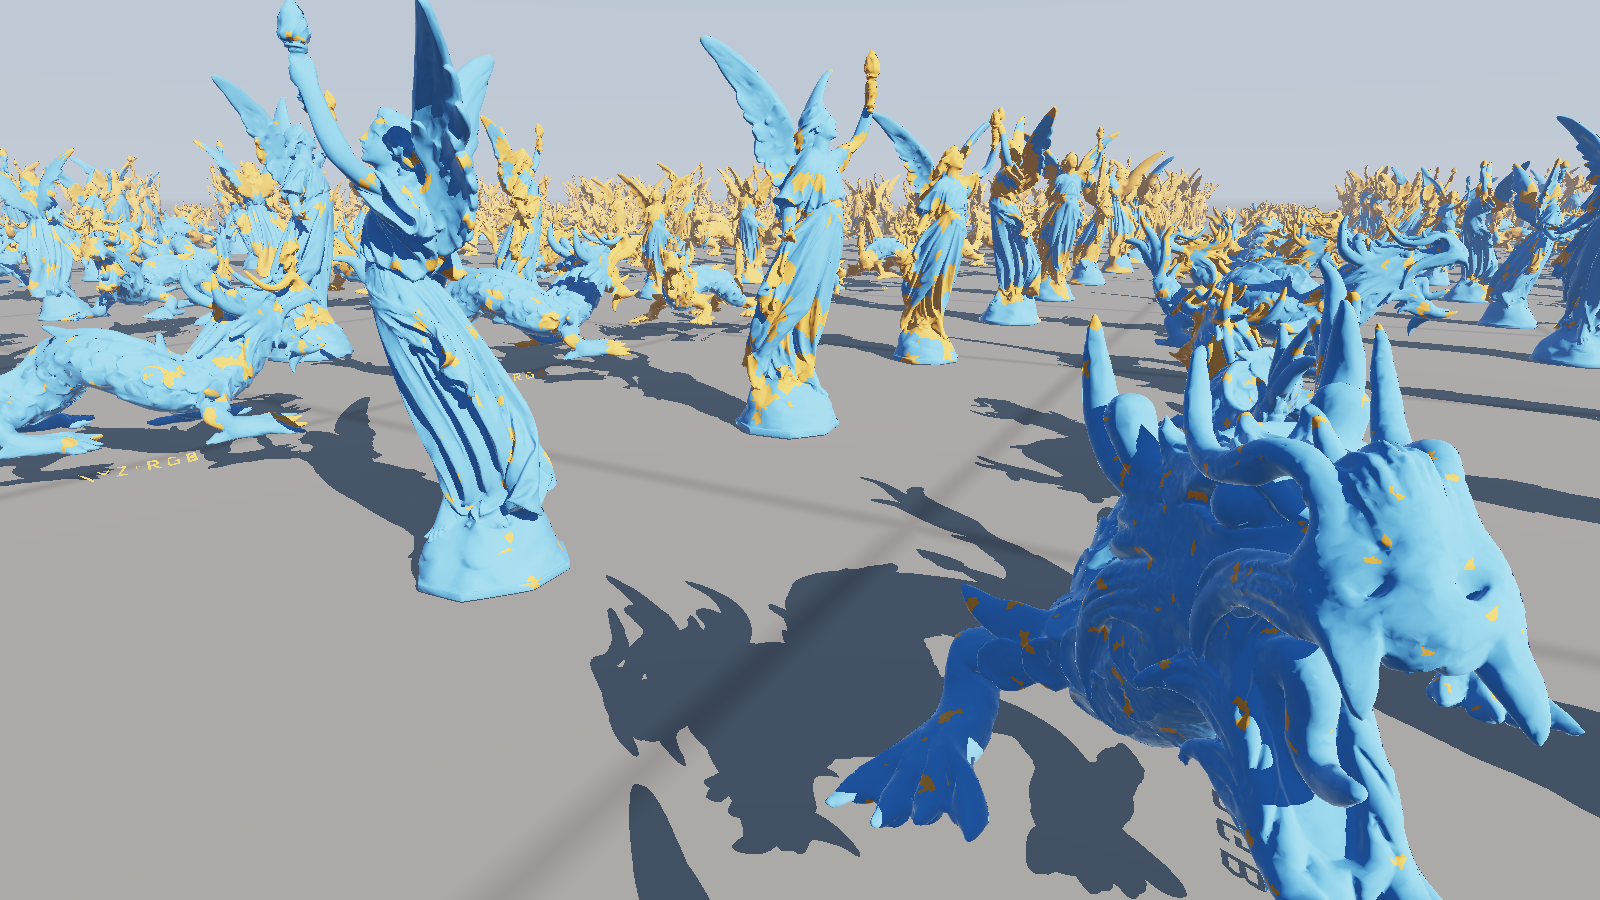
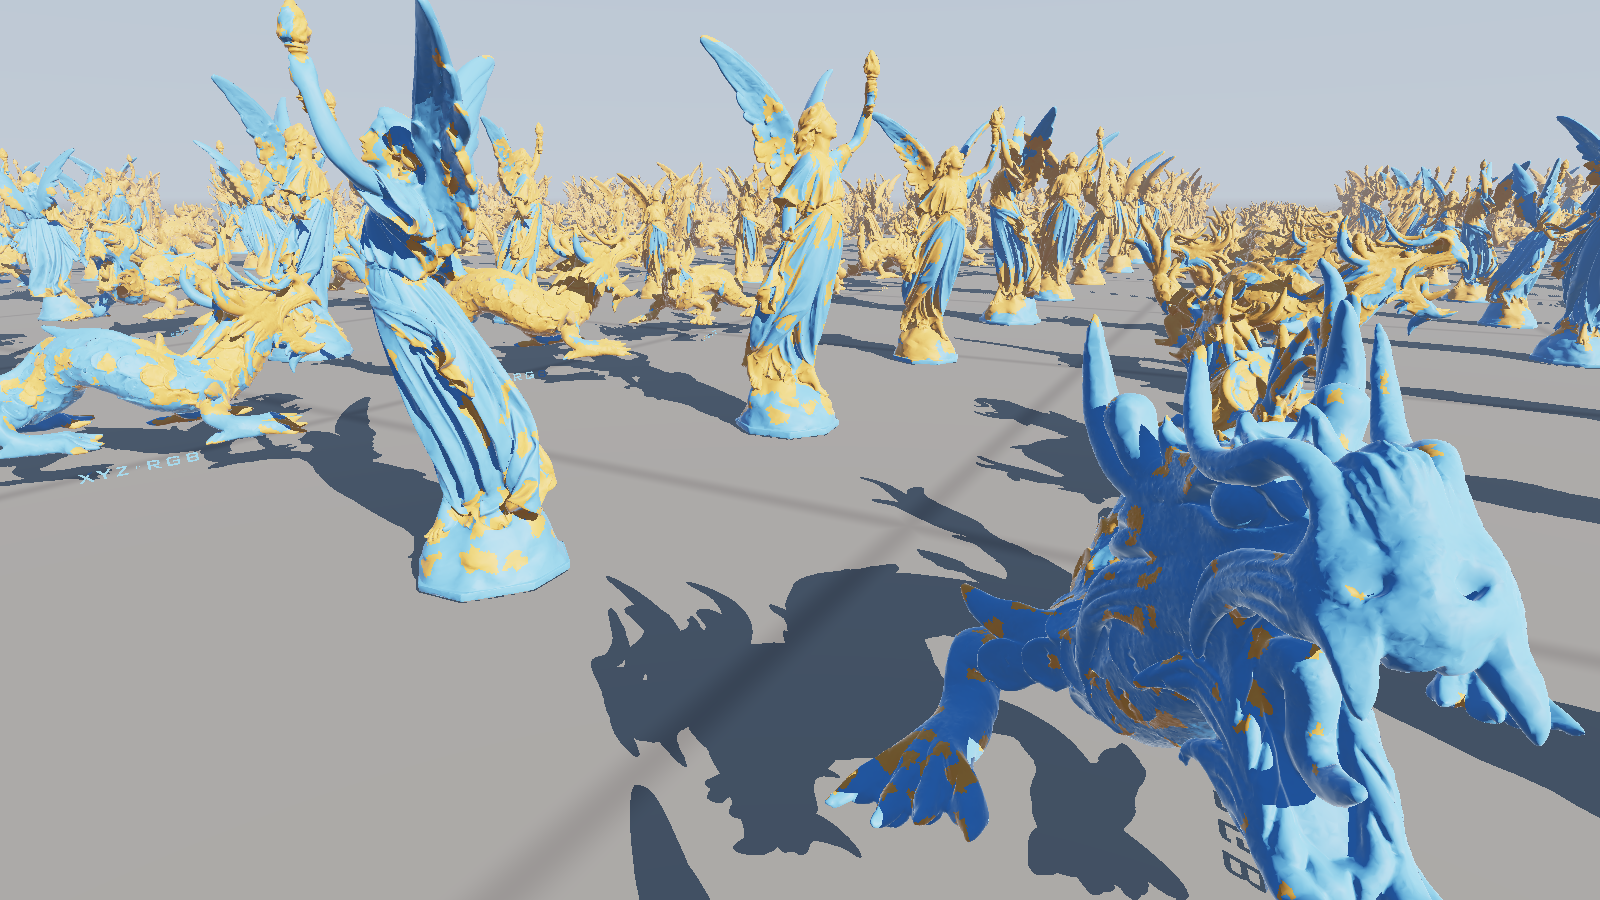
docs: describe stage 4, with every number measured again
The README now covers recursive bisection (every cluster full), measured
errors, materials, the cheaper shadows, antialiasing, prefetching,
three-byte triangles and the browser's streaming, occlusion, shadows and
antialiasing, and its limitations are the ones left. Every number was
measured again on the current build: the crowd at 0.81, 0.98 and 0.74 ms
for the three cameras with shadows and antialiasing, against 0.76, 0.82
and 0.85 ms in the last version, which drew a third of the triangles
under an error bound that was not strict. The images are rendered again.

diff --git a/README.md b/README.md
@@ -4,33 +4,38 @@
 [![license: MIT](https://img.shields.io/badge/license-MIT-blue.svg)](LICENSE)
 
 Virtualized geometry from scratch, in C++20 and Vulkan: a builder that turns a scanned
-model into a crack-free hierarchy of clusters, and a renderer that draws thousands of
-copies of it by picking, cluster by cluster, the coarsest detail that stays within a
-pixel of the original. It is the technique behind Unreal Engine 5's Nanite, written
-with no libraries beyond Vulkan and GLFW: the clustering, the simplifier, the graph
-partitioning, the culling, both rasterizers and the shading are all in this repository.
+model into a crack-free hierarchy of clusters, and a renderer that streams it from disk
+and draws thousands of copies of it by picking, cluster by cluster, the coarsest detail
+that stays within a pixel of the original. It is the technique behind Unreal Engine 5's
+Nanite, written with no libraries beyond Vulkan and GLFW: the clustering, the
+simplifier, the graph partitioning, the streaming, the culling, both rasterizers and the
+shading are all in this repository.
 
 **[Fly through it in your browser →](https://apollo-2006.github.io/colossus/)** A
-WebGPU port of the renderer (see [In the browser](#in-the-browser)), with the debug views,
-the error threshold and the crowd size to play with.
+WebGPU port of the renderer (see [In the browser](#in-the-browser)), streaming its
+pages over HTTP, with the debug views, the error threshold and the crowd size to play
+with.
 
 ![900 instances of Lucy and the XYZ RGB dragon, lit by the sun with ray traced shadows](docs/crowd.png)
 
 900 instances of Lucy (28M triangles) and the XYZ RGB dragon (7.2M), 15.9 billion
-triangles at full detail, drawn at 1920x1080 in 0.72 ms on an RX 9070 XT. About 0.86M
-triangles reach the screen.
+triangles at full detail, drawn at 1920x1080 in 0.81 ms on an RX 9070 XT, shadows and
+antialiasing included. About 3M triangles reach the screen, from 23 MB of the 579 MB
+on disk.
 
 ## How it works
 
 ### Building the hierarchy (`colossus_build`)
 
 * **Clusters.** The mesh is split into clusters of at most 128 triangles and 128
-  vertices (`src/cluster.cpp`), the unit every later step works in. A cluster grows
-  greedily: the next triangle is the one touching it that adds the fewest new
-  vertices, stays nearest its center, and has the fewest unused neighbours, so notches
-  that would become islands are taken while the cluster still reaches them. Each new
-  cluster starts on the last one's frontier. On the dragon this fills clusters to 108
-  triangles on average; seeding in Morton order alone gave 90.
+  vertices (`src/cluster.cpp`), the unit every later step works in, by recursive
+  bisection of the graph of triangles that share an edge. Each piece is cut in two
+  from two seeds far apart, growing outward from each in breadth-first layers, with
+  the cut placed so both halves hold a whole number of clusters; a few passes of
+  swapping triangles across the cut then shorten it. Every cluster comes out full:
+  the dragon's 7.2M triangles make 56,404 leaf clusters, 128.0 triangles on average.
+  The greedy grower this replaced left 8% of clusters as small pockets walled in by
+  full ones.
 * **Groups, locked, then simplified.** Each level's clusters are partitioned into
   groups of about eight that share the most edges (`src/dag.cpp`). Every vertex a
   group shares with another group is locked, the group's triangles are merged and
@@ -42,17 +47,25 @@ triangles reach the screen.
   quadric error (Garland and Heckbert): each vertex carries the summed squared
   distances to the planes around it. Collapses keep one endpoint, so every level
   indexes the original vertices and the whole hierarchy shares one vertex buffer.
-  Collapses that would flip a triangle or pinch the surface (the link condition) are
-  refused, and a vertex on a hole in the scan may only slide along the hole's edge.
-* **Errors that only grow.** A cluster stores its own error and its parent group's,
-  each with a bounding sphere, and both only grow toward the root. So the test
+  Collapses that would flip a triangle, pinch the surface (the link condition) or
+  remove a vertex's last triangles are refused, and a vertex on a hole in the scan
+  may only slide along the hole's edge.
+* **Errors that are measured, and only grow.** A quadric's cost is a mean over
+  planes, so it can understate the worst spot. Each simplified group is instead
+  measured against what it replaced: a two-sided distance sampled at every vertex,
+  edge midpoint and triangle centre of each surface, from the nearest triangle of the
+  other through a grid. The group's error is its children's plus the larger of that
+  and the quadric's estimate. Where the measurement comes out over four times the
+  estimate, the group is simplified again, less far, and the better result kept.
+  A cluster stores its own error and its parent group's, each with a bounding sphere,
+  and both only grow toward the root. So the test
   `own error on screen <= 1 pixel < parent error on screen` picks exactly one level
   along every path from a leaf to a root, and every cluster of a group agrees. Each
   cluster is tested on its own, by its own GPU thread, with no tree to walk.
 * **Checked for cracks.** Since every level uses the original vertices, a crack is
   exact to detect: an edge used by one triangle of a cut whose ends are not both on a
   hole in the scan. `colossus_build --check` selects 25 cuts across the error range and
-  counts them. Lucy builds 18 levels in 24 s and the dragon 20 levels in 5.4 s, every
+  counts them. Lucy builds 19 levels in 83 s and the dragon 19 levels in 21 s, every
   cut with 0 cracked edges.
 
 ### Drawing it (`colossus`)
@@ -61,7 +74,7 @@ triangles reach the screen.
    for the rest, finds which clusters could be drawn at all. Clusters are stored in
    order of parent error, and one can only be drawn while its parent looks too coarse,
    so a binary search skips every cluster fine enough anywhere on the instance. A far
-   instance tests a short tail of its coarsest clusters, not all 573k.
+   instance tests a short tail of its coarsest clusters, not all 445k.
 2. **Cluster culling** (`cluster_cull.comp`) tests the rest: the LOD cut, the
    frustum, the normal cone, and occlusion. Survivors are appended to a list with one
    atomic per subgroup. This began as a task shader; on RADV each task workgroup has a
@@ -81,13 +94,26 @@ triangles reach the screen.
    frame reveals. The pyramid is built from the visibility buffer, so both
    rasterizers count.
 5. **Shading** (`shade.comp`) finds each pixel's triangle again, intersects the
-   pixel's ray with it for exact barycentrics, and interpolates normals. Where the GPU
-   has ray queries, one shadow ray per pixel is traced toward the sun against a coarser
-   copy of each model: the finest cut of its own hierarchy within 256k triangles. The
-   hierarchy also says how far that copy can stray from what is drawn, and shadow rays
-   start that far above the surface.
-
-6. **Streaming.** Only the clusters' bounds and errors stay resident. Their geometry is
+   pixel's ray with it for exact barycentrics, and interpolates normals. Each instance
+   is one of five materials (marble, sandstone, granite, bronze or gold), lit with
+   Lambert diffuse and a GGX specular lobe.
+6. **Shadows**, where the GPU has ray queries. Rays toward the sun are traced against
+   coarser copies of each model, cut from its own hierarchy at 256k, 32k and 4k
+   triangles and kept in one acceleration structure under three masks; each ray uses
+   the coarsest copy whose error is under half a pixel where it starts, and starts
+   that error above the surface. `shadow.comp` traces one ray per 2x2 pixels, and
+   shading borrows that result where every neighbour at the pixel's distance agrees,
+   and traces its own ray at shadow edges and silhouettes. Rays stop once they climb above
+   the tallest model. Together these took the three views below from 0.40, 0.55 and
+   0.48 ms of shading to 0.32, 0.44 and 0.37 ms, with 0.07% to 0.37% of pixels
+   visibly different.
+7. **Antialiasing** (`taa.comp`). Each frame's projection is nudged by a sub-pixel
+   offset, eight in turn, and each pixel is blended 10% into a history found by
+   projecting the surface under it with last frame's camera, the nudge taken back
+   out, so a still camera never resamples its history. The history is read through a
+   Catmull-Rom filter so a moving camera does not blur it, and held to the colours of
+   the pixel's 3x3 neighbourhood so nothing ghosts. It costs 0.05 to 0.07 ms.
+8. **Streaming.** Only the clusters' bounds and errors stay resident. Their geometry is
    packed into pages, one per group, and paged from disk into a fixed pool
    (`--pool-mb`, 1 GB by default) as the GPU asks for it. A cluster that is drawn but
    would rather be its finer clusters, whose page is missing, requests that page,
@@ -105,19 +131,26 @@ triangles reach the screen.
    evicted only when nothing resident or loading depends on it. Then along every path
    from leaf to root, exactly one cluster is drawn, whatever has been loaded.
 
+   Each level used to take a round trip of a few frames. A request also says how far
+   it is from good enough, and each level roughly halves the error, so the streamer
+   prefetches the pages below a request, at half the priority a level, while the error
+   would still be over the threshold. From a cold start, a close up of Lucy settles
+   in 17 frames instead of 45, and the crowd above in 32 instead of 45.
+
    Pages are compact: a vertex is two words, its position snapped to a grid over the
    model and stored as 14-bit offsets from its cluster's corner, its normal
-   octahedral at 11 + 11 bits. A vertex shared by clusters snaps to the same grid
-   point in each, so quantizing opens no cracks; Lucy's grid step is 3.3e-5 of her
-   height. Her pages are 509 MB.
+   octahedral at 11 + 11 bits, and a triangle is three bytes. A vertex shared by
+   clusters snaps to the same grid point in each, so quantizing opens no cracks;
+   Lucy's grid step is 3.3e-5 of her height. Her pages are 460 MB. A shared vertex is
+   still stored once per cluster that uses it, but each is used by only 1.22 clusters
+   on average, so indexing them would save little; zlib takes 20% off a page.
 
-   The 900 instance view at the top settles in 21 frames with 321 pages, 2 MB, of
-   the 640 MB on disk resident, since every instance draws from the same pages; after
-   that it draws the same 856k triangles as with everything resident. A 300 frame
-   flight through the crowd with a 16 MB pool turns over thousands of pages and shows
-   no holes at any frame checked. From a cold file cache, the render thread's worst
-   frame in the streamer is 0.25 ms with loader threads, against 11.5 ms reading pages
-   itself (`--sync-loads`).
+   The crowd above reads 23 MB and holds at most 2,577 pages, since every instance
+   draws from the same pages. A 300 frame flight through the crowd with a 16 MB pool
+   evicts 24,085 pages, and at frames 100, 200 and 300 its holes view shows exactly
+   the empty pixels a 1 GB pool does: background between thin parts, no gaps. From a cold
+   file cache, the render thread's worst frame in the streamer is 2.0 ms with loader
+   threads, against 44 ms reading pages itself (`--sync-loads`).
 
 ![Lucy, each cluster in its own color](docs/clusters.png)
 
@@ -135,8 +168,8 @@ mesh shaders. Only the nearest surfaces are worth sending to the hardware.
 
 ## In the browser
 
-`web/` is the renderer ported to WebGPU, which has no mesh shaders, no 64-bit atomics and
-no ray queries:
+`web/` is the renderer ported to WebGPU, which has no mesh shaders, no 64-bit atomics,
+no ray queries and no push constants:
 
 * Large clusters go through an ordinary render pipeline: one instance per visible
   cluster, 384 vertices each, every vertex pulling its cluster, triangle and corner
@@ -145,13 +178,22 @@ no ray queries:
   twice: a 32-bit atomic max keeps the nearest depth, then a second pass writes the
   triangle wherever its depth won. Shading takes the nearer of the two rasterizers'
   results at each pixel.
-* No shadows, no occlusion culling and no streaming yet.
+* Pages stream over HTTP range requests, through a JavaScript port of the streamer
+  (`web/streamer.js`), with the same dependency rules. A server that ignores ranges
+  gets the whole page file fetched once.
+* Occlusion culling runs in the same two passes, the pass number coming from a
+  uniform buffer bound at a different offset per dispatch.
+* Shadows come from a 2048x2048 shadow map over the ground in front of the camera,
+  its casters picked by a second run of the same culling with an orthographic
+  camera, at an error of 8 texels. Materials and antialiasing are the viewer's.
 
-The models are trimmed to 400k triangles at their finest (`colossus_build --max-triangles`,
-which keeps the hierarchy above that cut intact), 7.5 MB each gzipped. Every page is
-loaded up front, so the page table is just each page's place in the file. 900 instances
-take 0.47 ms of GPU time at 1600x813 in Chrome on the RX 9070 XT. `web/build.sh` builds the
-models, and `node tests/web_screenshot.mjs` renders the page in a headless Chrome.
+The models are trimmed to 4M triangles at their finest (`colossus_build --max-triangles`,
+which keeps the hierarchy above that cut intact): about 4 MB of gzipped metadata each,
+loaded up front, and about 71 MB of pages, streamed. 900 instances (3.6 billion triangles at
+full detail) take 0.72 ms of GPU time at 1600x813 in Chrome on the RX 9070 XT, drawing
+2M triangles from 5 MB of pages. It needs 14 storage buffers per shader stage, which
+desktop GPUs allow. `web/build.sh` builds the models, and
+`node tests/web_screenshot.mjs` renders the page in a headless Chrome.
 
 ## Build & run
 
@@ -175,7 +217,7 @@ models/fetch.sh            # downloads Lucy and the dragon (380 MB) and builds b
 | 1 to 8 | shaded, clusters, triangles, LOD level, groups, instances, holes, rasterizer |
 | [ and ] | halve or double the error threshold (1 pixel) |
 | F | freeze culling, to fly out and watch it from outside |
-| C V O R H | cone culling, frustum culling, occlusion, compute rasterizer, shadows |
+| C V O R H X | cone culling, frustum culling, occlusion, compute rasterizer, shadows, antialiasing |
 | T, P | wireframe; print the camera as a `--camera` argument |
 
 `--headless --frames N --screenshot out.png` renders without a window and prints the
@@ -193,46 +235,52 @@ and coverage, the simplifier's locked vertices, flips and area on a flat grid, a
 full hierarchy for a closed sphere, a sphere with holes and a flat grid, each checked
 for cracks at 31 cuts, paged, written to a file and read back exactly. With the group
 locks removed from the builder, the crack check reports 39,095 cracked edges on the
-closed sphere alone.
+closed sphere alone. They also check that every vertex shared by clusters decodes bit
+for bit the same from each.
 
 `tests/streamer_test.cpp` runs the streamer for 3,000 frames of random requests into a
-pool a tenth the size of a model, synchronously and with loader threads, checking
-after each frame that every resident page's dependencies are resident. It caught one
-way to break that (making room for a page could evict a page it was about to depend
-on), fixed before the streamer was committed. The builder's tests also check that
-every vertex shared by clusters decodes bit for bit the same from each. CI runs both
-and builds the viewer on every push.
+pool a tenth the size of a model, synchronously, with loader threads, and with loader
+threads and prefetching, checking after each frame that every resident page's
+dependencies are resident. It caught one way to break that (making room for a page
+could evict a page it was about to depend on), fixed before the streamer was
+committed. CI runs both and builds the viewer on every push.
 
 ## Performance
 
-RX 9070 XT (RADV), 1920x1080, the 900 instance scene above, median of 200 frames:
+RX 9070 XT (RADV), 1920x1080, the 900 instance scene above, median of 200 frames after
+100 frames of streaming. Shading includes shadows and antialiasing.
 
 | camera | frame | culling | raster | pass 2 | shading | triangles | clusters |
 |---|---|---|---|---|---|---|---|
-| beside Lucy (top image) | 0.76 ms | 0.15 | 0.13 | 0.09 | 0.40 | 0.86M | 9.8k |
-| raised (LOD image) | 0.82 ms | 0.06 | 0.15 | 0.08 | 0.53 | 1.15M | 16.6k |
-| ground level | 0.85 ms | 0.17 | 0.11 | 0.09 | 0.47 | 0.82M | 9.0k |
+| beside Lucy (top image) | 0.81 ms | 0.14 | 0.18 | 0.09 | 0.40 | 3.00M | 25.0k |
+| raised (LOD image) | 0.98 ms | 0.07 | 0.24 | 0.08 | 0.58 | 4.33M | 36.7k |
+| ground level | 0.74 ms | 0.11 | 0.17 | 0.10 | 0.37 | 2.59M | 21.5k |
 
-Measured after 100 frames of streaming. Fetching geometry through the page table costs
-2% to 6% against keeping everything resident, which drew the same triangles in 0.72,
-0.78 and 0.83 ms. Shadow rays are most of the frame: without them the three cameras
-take 0.38, 0.36 and 0.42 ms. Turning the compute rasterizer off costs 0.10 to 0.14 ms (raster time
-roughly doubles). Occlusion culling removes 39% of the triangles at ground level
-(1.34M to 0.82M) but saves little time here, where instances stand apart. With instances packed tighter
-(spacing 0.9, from inside the crowd), the culling and rasterizer changes together took
-a frame from 1.37 ms to 0.47 ms; the commit messages have each step's numbers.
+Without shadows the three take 0.56, 0.57 and 0.52 ms, so shadow rays are still the
+largest single cost. Without antialiasing, 0.75, 0.91 and 0.68 ms. Turning the compute
+rasterizer off costs 0.30 to 0.43 ms (raster time roughly triples). Occlusion culling
+removes 46% of the triangles at ground level (4.77M to 2.59M, 0.82 to 0.74 ms), and
+next to nothing from the raised camera, which sees over the crowd.
+
+These are more triangles than earlier versions drew (0.86M beside Lucy), and that is
+the error bound becoming honest: with errors measured rather than estimated, levels
+that used to be picked while straying several pixels are now refused. The commit
+messages have each step's numbers.
 
 ## Limitations
 
-* About 8% of leaf clusters are still small pockets walled in by full ones. Swapping
-  triangles between neighbours, or a real graph partitioner, would fill them.
-* The simplifier's error is a mean over the quadric's planes, not a maximum, so it can
-  understate the worst spot, and the 1 pixel bound is not strict.
-* Shared vertices are stored once per cluster, and triangles take a word each where
-  a byte stream would do; pages could be about half their size again.
-* A refinement takes a round trip of a few frames per level, so flying into a statue
-  from far away sharpens over twenty frames or so.
-* Normals are interpolated per vertex, with no materials or textures.
+* The error is measured by sampling each surface at its vertices, edge midpoints and
+  triangle centres, so it can still miss a narrow spike between samples; it is a
+  close bound, not a proof.
+* At the top of Lucy's hierarchy three groups were too small to simplify further, so
+  she has three roots rather than one.
+* Refinement still takes 17 to 45 frames from a cold start, since each level is a
+  request, a read and a publish; prefetching only overlaps the levels.
+* Materials are a few parameters per instance, with no textures.
+* Antialiasing assumes the scene is still: there are no motion vectors, so a moving
+  object would rely on the neighbourhood clamp alone.
+* The browser's shadows cover a 16 unit square in front of the camera, and its pages
+  are not compressed beyond what the server does.
 
 ## Models
 
